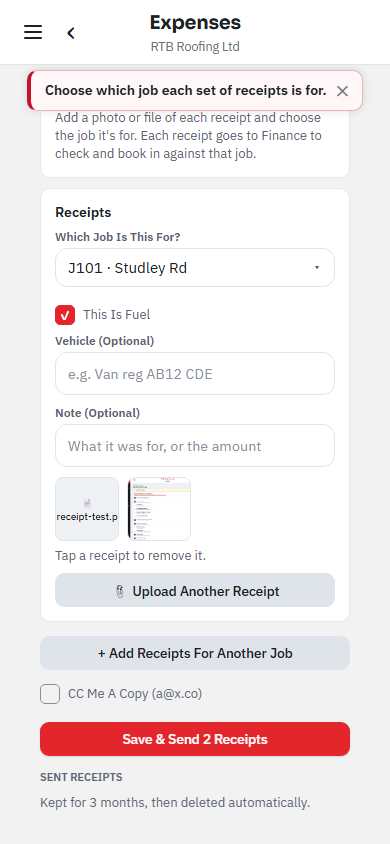
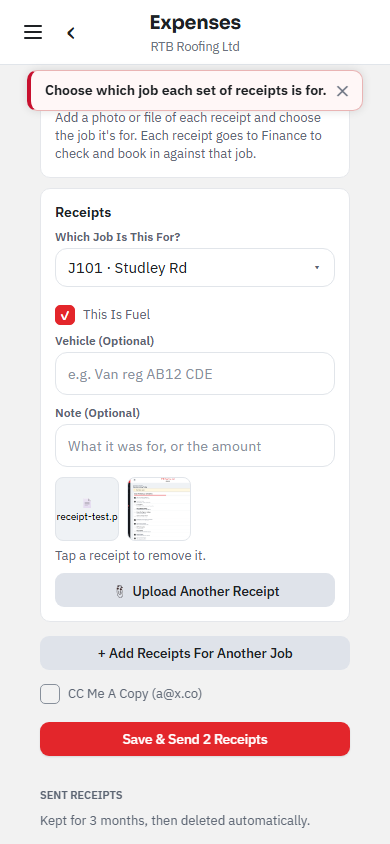
Home: the weather tile uses the company's own postcode when there are no projects yet (RTB Construction); the Today tiles by the weather leave out the drivers' "Delivery: …" calendar items (still on the calendars). iPhone: tapping the top of the screen takes the open page back to the top (the page h
Claude-Session: https://claude.ai/code/session_012KhfNvBEbifMJmPdX7yZfp

Changed region(s): [[0.0923, 0.8934, 0.8, 0.9858]]

diff --git a/tools/test-harness/home19-check.js b/tools/test-harness/home19-check.js
@@ -1,0 +1,80 @@
+// Home page and iPhone (Andy, 19 Nov 2026): "there is no weather tile on home page of construction?", "remove delivery
+// drivers from the tiles that go next to weather please", and "when I press the top of the screen everywhere else it
+// takes me to the top of the page but in this it doesn't". Fake database. node home19-check.js
+const {chromium, makeContext} = require('./harness');
+const path = require('path');
+const B = 'http://localhost:8081', S1 = '11111111-1111-1111-1111-111111111111';
+const check = (ok, what) => { console.log((ok ? 'PASS ' : 'FAIL ') + what); if (!ok) process.exitCode = 1; };
+const IPHONE = 'Mozilla/5.0 (iPhone; CPU iPhone OS 18_0 like Mac OS X) AppleWebKit/605.1.15 (KHTML, like Gecko) Version/18.0 Mobile/15E148 Safari/604.1';
+const login = async (page) => {
+  await page.goto(B + '/login'); await page.waitForTimeout(5000);
+  await page.fill('input[placeholder="you@yourcompany.co.uk"]', 'a@x.co'); await page.fill('input[type="password"]', 'pw123456');
+  await page.getByText('Sign In', {exact: true}).click(); await page.waitForTimeout(6000);
+};
+const today = () => { const d = new Date(); return `${d.getFullYear()}-${String(d.getMonth() + 1).padStart(2, '0')}-${String(d.getDate()).padStart(2, '0')}`; };
+
+(async () => {
+  const browser = await chromium.launch(); const errs = [];
+  // 1. A company with no projects: the weather is for the company's own postcode.
+  {
+    const {ctx, db} = await makeContext(browser, 'admin', [], {viewport: {width: 1300, height: 900}});
+    require('./seeds/world')(db);
+    const me = db.profiles.find((p) => p.id === 'me'); me.role = 'admin';
+    db.sites = []; db.organizations[0].rams_settings = {address: 'Unit 7\nRunwell Hall Farm, Hoe Lane\nRettendon, CM3 8DQ', phone: '01268 000000'};
+    const page = await ctx.newPage(); page.on('pageerror', (e) => errs.push(e.message));
+    await login(page);
+    const wx = await page.locator('[aria-label^="Weather"]').count();
+    check(wx > 0, `no projects yet: there is a weather tile, from the company's postcode (${wx})`);
+    await ctx.close();
+  }
+  // 2. Today's tiles leave out the drivers' deliveries.
+  {
+    const {ctx, db} = await makeContext(browser, 'admin', [], {viewport: {width: 1300, height: 900}});
+    require('./seeds/world')(db);
+    const me = db.profiles.find((p) => p.id === 'me'); me.role = 'admin';
+    db.site_calendar_events = [
+      {id: 'ev1', site_id: S1, title: 'Delivery: Finish clearing site', event_date: today(), created_at: new Date().toISOString()},
+      {id: 'ev2', site_id: S1, title: 'Scaffold inspection', event_date: today(), created_at: new Date().toISOString()},
+    ];
+    const page = await ctx.newPage(); page.on('pageerror', (e) => errs.push(e.message));
+    await login(page);
+    const t = await page.locator('body').innerText();
+    // The Today tiles by the weather, not the Next 5 Days calendar under them (deliveries stay on the calendar).
+    const todayPart = t.split('Next 5 Days')[0];
+    check(/Scaffold inspection/.test(todayPart) && !/Delivery: Finish clearing site/.test(todayPart), 'the Today tiles by the weather show key dates, not the drivers\' deliveries');
+    await page.screenshot({path: path.join(__dirname, 'shots', 'home19-today.png')});
+    await ctx.close();
+  }
+  // 3. iPhone: tapping the top of the screen (the page going to 0) takes the open list back to the top.
+  {
+    const {ctx, db} = await makeContext(browser, 'admin', [], {viewport: {width: 390, height: 844}, userAgent: IPHONE, hasTouch: true, isMobile: true});
+    require('./seeds/world')(db);
+    const me = db.profiles.find((p) => p.id === 'me'); me.role = 'admin';
+    await ctx.addInitScript((ua) => { Object.defineProperty(navigator, 'userAgent', {get: () => ua}); }, IPHONE);
+    const page = await ctx.newPage(); page.on('pageerror', (e) => errs.push(e.message));
+    await login(page);
+    await page.waitForTimeout(1500);
+    const before = await page.evaluate(() => {
+      const el = [...document.querySelectorAll('div')].filter((d) => d.scrollHeight > d.clientHeight + 200 && /(auto|scroll)/.test(getComputedStyle(d).overflowY)).sort((a, b) => b.clientHeight - a.clientHeight)[0];
+      if (!el) return {found: false};
+      el.setAttribute('data-test-scroller', '1'); el.scrollTop = 400;
+      return {found: true, top: el.scrollTop, page: window.scrollY};
+    });
+    check(before.found && before.top > 0 && before.page === 1, `the page sits on its spare pixel and the list is scrolled down (${JSON.stringify(before)})`);
+    await page.evaluate(() => window.scrollTo(0, 0));
+    await page.waitForTimeout(1500);
+    const after = await page.evaluate(() => ({top: document.querySelector('[data-test-scroller]').scrollTop, page: window.scrollY}));
+    check(after.top === 0 && after.page === 1, `tapping the top takes the list back to the top, ready for the next tap (${JSON.stringify(after)})`);
+    // Not while typing: the keyboard moves the page too.
+    await page.evaluate(() => { document.querySelector('[data-test-scroller]').scrollTop = 300; });
+    const input = page.locator('input:visible').first();
+    if (await input.count()) {
+      await input.focus(); await page.evaluate(() => window.scrollTo(0, 0)); await page.waitForTimeout(1200);
+      const typing = await page.evaluate(() => document.querySelector('[data-test-scroller]').scrollTop);
+      check(typing > 0, `while typing, the page moving doesn't jump the list (${typing})`);
+    }
+    await ctx.close();
+  }
+  check(!errs.length, `no page errors ${errs.slice(0, 2).join(' | ')}`);
+  await browser.close();
+})();

diff --git a/app-native/src/components/PmHome.tsx b/app-native/src/components/PmHome.tsx
@@ -12,11 +12,12 @@ import { HowTo } from '@/components/HowTo';
 import { OphIcon } from '@/components/OphIcon';
 import { SearchButton } from '@/components/SearchButton';
 import { SitesMapCard } from '@/components/SitesMap';
+import { useCompanyContact } from '@/components/EmailSignature';
 import { WeatherTile } from '@/components/WeatherSwap';
 import { Card, Muted, Screen, SectionTitle, Stat, Tile, TileGrid, TINTS } from '@/components/ui';
 import { useHubAll } from '@/data/hub';
 import { useDeliveryRequests } from '@/data/deliveries';
-import { useFinOverview } from '@/data/finance';
+import { useFinOverview, useFinSettings } from '@/data/finance';
 import { useQuotes } from '@/data/quotes';
 import { useOnSiteNow, usePmReports, usePmTodos, useTodayEvents } from '@/data/pmHome';
 import { useSites } from '@/data/sites';
@@ -25,8 +26,10 @@ import { useAuth } from '@/lib/auth';
 import { heading } from '@/lib/fonts';
 import { greeting, siteStatusKey } from '@/lib/rules/checkin';
 import { isQuoted } from '@/lib/rules/quotes';
+import { ukPostcode } from '@/lib/rules/weather';
 import { seesHomeFinance } from '@/lib/homeTiles';
 import { can } from '@/lib/rules/rolePerms';
+import type { Site } from '@/lib/types';
 import { base, space, useDesk, useTheme } from '@/theme/theme';
 
 export function PmHome() {
@@ -63,17 +66,26 @@ export function PmHome() {
   const where = (r: (typeof reports)[number]) => (r.site_id ? (sites ?? []).find((s) => s.id === r.site_id)?.name || 'Project' : r.general_label || 'General survey');
   const go = (p: string) => () => router.push(p as never);
   const { data: today = [] } = useTodayEvents();
+  const keyDates = today.filter((e) => !/^s*deliverys*:/i.test(e.title || ''));
   const siteName = (id: string) => (sites ?? []).find((x) => x.id === id)?.name || 'Project';
   const onSiteJobs = new Set(onSite.map((o) => o.site_id)).size;
   // Today (Andy, 6 Nov 2026: option 1): key dates and deliveries from the project calendars, who's on site, reports in progress.
   const todayRows: { ic: string; t: string; sub: string; go: string }[] = [
-    ...today.slice(0, 4).map((e) => ({ ic: /deliver|collect|\bPO\b/i.test(e.title) ? 'truck' : 'calendar', t: e.title, sub: siteName(e.site_id), go: `/sites/${e.site_id}/calendar` })),
+    // Not the drivers' deliveries ("Delivery: …" on the calendars): Andy, 19 Nov 2026: "remove delivery drivers from the
+    // tiles that go next to weather please. We don't need to see them constantly". They're still on the calendars.
+    ...keyDates.slice(0, 4).map((e) => ({ ic: /deliver|collect|\bPO\b/i.test(e.title) ? 'truck' : 'calendar', t: e.title, sub: siteName(e.site_id), go: `/sites/${e.site_id}/calendar` })),
     { ic: 'users', t: onSite.length ? `${onSite.length} on site` : 'Nobody on site yet', sub: onSite.length ? `across ${onSiteJobs} project${onSiteJobs === 1 ? '' : 's'}` : 'Signed in today', go: '/onsite' },
     ...(dlvN ? [{ ic: 'truck', t: `${dlvN} deliver${dlvN === 1 ? 'y' : 'ies'} to schedule`, sub: 'Delivery schedule', go: '/pm/deliveries' }] : []),
     ...(open.length ? [{ ic: 'reports', t: `${open.length} report${open.length === 1 ? '' : 's'} in progress`, sub: open[0] ? `${open[0].template_name || 'Report'} · ${where(open[0])}` : '', go: '/pm/reports' }] : []),
   ];
   // Today's weather first (Andy, 11 Nov 2026), for the first live project with a postcode; tap it for the week.
-  const wxSite = live.find((s2) => !!s2.postcode) ?? (sites ?? []).find((s2) => !!s2.postcode);
+  // With no project yet (a new company, e.g. RTB Construction on 19 Nov 2026), the company's own postcode: from its
+  // address (Admin › RAMS Library › Company, or Finance's company address).
+  const { data: contact } = useCompanyContact(org?.id);
+  const { data: finSet } = useFinSettings(org?.id);
+  const homePostcode = ukPostcode(String(contact?.address || '')) || ukPostcode(String((finSet as Record<string, unknown> | undefined)?.company_address || ''));
+  const wxSite = live.find((s2) => !!s2.postcode) ?? (sites ?? []).find((s2) => !!s2.postcode)
+    ?? (homePostcode ? ({ id: '', name: org?.name || 'Office', postcode: homePostcode } as unknown as Site) : undefined);
   const todayCard = (
     <Card style={{ paddingHorizontal: 0, paddingVertical: 10, marginBottom: desk ? 0 : space.m, ...(desk ? { flex: 1, minWidth: 0 } : {}) }}>
       <Text style={{ fontWeight: desk ? '700' : '600', color: base.ink, fontSize: desk ? 16 : 14, paddingHorizontal: desk ? 18 : 14, paddingBottom: 6 }}>Today</Text>
@@ -88,7 +100,7 @@ export function PmHome() {
           </View>
         </Pressable>
       ))}
-      {!today.length && <Text style={{ fontSize: 12, color: base.slateLight, paddingHorizontal: desk ? 18 : 14, paddingTop: 8, borderTopWidth: 1, borderTopColor: '#f0f1f3' }}>No key dates or deliveries on the calendars today.</Text>}
+      {!keyDates.length && <Text style={{ fontSize: 12, color: base.slateLight, paddingHorizontal: desk ? 18 : 14, paddingTop: 8, borderTopWidth: 1, borderTopColor: '#f0f1f3' }}>No key dates on the calendars today.</Text>}
     </Card>
   );
 

diff --git a/app-native/src/lib/webShell.ts b/app-native/src/lib/webShell.ts
@@ -27,3 +27,46 @@ if (Platform.OS === 'web' && typeof document !== 'undefined') {
   `;
   document.head.appendChild(style);
 }
+
+// Tap the top of an iPhone's screen to go back to the top (Andy, 19 Nov 2026: "when I press the top of the screen everywhere
+// else it takes me to the top of the page but in this it doesn't"). The iPhone only does that for the page itself, which
+// never moves here (above), so the page is given one spare pixel to scroll: the app is fixed in place, so nothing on
+// screen moves. Tapping the top takes the page from that pixel back to 0; the app then scrolls whatever list is open to
+// the top, as the iPhone would, and puts the page back on its pixel. Not while typing: the keyboard moves the page too.
+if (Platform.OS === 'web' && typeof window !== 'undefined' && typeof document !== 'undefined') {
+  const ua = navigator.userAgent || '';
+  const ios = /iPhone|iPad|iPod/.test(ua) || (/Macintosh/.test(ua) && (navigator.maxTouchPoints || 0) > 1);
+  if (ios) {
+    const style = document.createElement('style');
+    style.textContent = 'html.tap-top { height: calc(100% + 1px); overflow-y: scroll; scrollbar-width: none; } html.tap-top::-webkit-scrollbar { display: none; }';
+    document.head.appendChild(style);
+    document.documentElement.classList.add('tap-top');
+    let typingUntil = 0;
+    const typing = () => {
+      const a = document.activeElement as HTMLElement | null;
+      return Date.now() < typingUntil || !!(a && (a.tagName === 'INPUT' || a.tagName === 'TEXTAREA' || a.isContentEditable));
+    };
+    document.addEventListener('focusin', () => { typingUntil = Date.now() + 900; });
+    document.addEventListener('focusout', () => { typingUntil = Date.now() + 900; });
+    const park = () => { if (window.scrollY < 1) window.scrollTo(0, 1); };
+    const toTop = () => {
+      document.querySelectorAll<HTMLElement>('div').forEach((el) => {
+        if (el.scrollTop <= 0 || el.scrollHeight <= el.clientHeight + 2) return;
+        const oy = getComputedStyle(el).overflowY;
+        if (oy !== 'auto' && oy !== 'scroll') return;
+        const r = el.getBoundingClientRect();
+        if (r.width < 40 || r.height < 40 || r.bottom <= 0 || r.top >= window.innerHeight) return;
+        el.scrollTo({ top: 0, behavior: 'smooth' });
+      });
+    };
+    let parked = false;
+    window.addEventListener('scroll', () => {
+      if (window.scrollY > 0) { parked = true; return; }
+      if (parked && !typing()) toTop();
+      parked = false;
+      setTimeout(park, 350);
+    }, { passive: true });
+    window.addEventListener('load', () => setTimeout(park, 300));
+    setTimeout(park, 1200);
+  }
+}

diff --git a/app-native/src/app/(app)/expenses.tsx b/app-native/src/app/(app)/expenses.tsx
@@ -120,7 +120,8 @@ export default function Expenses() {
       <Button kind="ghost" disabled={!!busy} title="+ Add Receipts For Another Job" onPress={() => setGroups([...groups, newGroup(null)])} />
       <View style={{ marginVertical: 6 }}><Check label={`CC Me A Copy${me.email ? ` (${me.email})` : ''}`} value={ccMe} onChange={setCcMe} /></View>
       <Button disabled={!!busy || !total} busy={!!busy} title={busy || (total ? `Save & Send ${total} Receipt${total === 1 ? '' : 's'}` : 'Add A Receipt To Send')} onPress={save} />
-      <View style={{ height: 14 }} />
+      {/* A clear gap before the list (Andy, 19 Nov 2026: "the sent receipts sits too high"). */}
+      <View style={{ height: 32 }} />
 
       <SectionTitle>Sent Receipts</SectionTitle>
       <Muted style={{ marginBottom: 8 }}>Kept for {recent?.months ?? 3} months, then deleted automatically.</Muted>

diff --git a/app-native/src/lib/rules/weather.ts b/app-native/src/lib/rules/weather.ts
@@ -17,3 +17,10 @@ export function rainDelayEmail(job: { name?: string | null; job_number?: string 
     message: `Dear ${who || 'Sir / Madam'},\n\nDue to the adverse weather today, ${when}, we are not in attendance at ${job.address || job.name || 'site'}. We will need to add additional time to the programme to allow for this.\n\nWe will return to site as soon as conditions allow.\n\nKind regards,\n${sender}\n${company}`,
   };
 }
+
+/** The UK postcode in an address, e.g. "Unit 7, Runwell Hall Farm, Hoe Lane, Rettendon, CM3 8DQ" → "CM3 8DQ"; '' if none.
+ *  For the home page weather when a company has no projects yet (19 Nov 2026). */
+export function ukPostcode(address: string | null | undefined): string {
+  const m = /\b([A-Z]{1,2}\d[A-Z\d]?)\s*(\d[A-Z]{2})\b/i.exec(String(address || ''));
+  return m ? `${m[1]} ${m[2]}`.toUpperCase() : '';
+}

diff --git a/app-native/src/components/WeatherSwap.tsx b/app-native/src/components/WeatherSwap.tsx
@@ -195,7 +195,8 @@ function WeatherPopup({ me, site, company, pm, lat, lon, onClose, start = 'today
               </View>
             )}
           </ScrollView>
-          <View style={{ marginTop: 12 }}><Button title="✉ Email Weather Delay" onPress={() => setView('email')} /></View>
+          {/* Only for a project: the company's own weather (no projects yet) has no client to tell. */}
+          {!!site.id && <View style={{ marginTop: 12 }}><Button title="✉ Email Weather Delay" onPress={() => setView('email')} /></View>}
         </Pressable>
       </Pressable>
     </Modal>

diff --git a/app-native/src/lib/rules/weather.test.ts b/app-native/src/lib/rules/weather.test.ts
@@ -1,0 +1,12 @@
+/// <reference types="node" />
+import assert from 'node:assert/strict';
+import { test } from 'node:test';
+
+import { ukPostcode } from './weather.ts';
+
+test('the postcode is found in a company address (home page weather with no projects yet)', () => {
+  assert.equal(ukPostcode('Unit 7, Runwell Hall Farm, Hoe Lane, Rettendon, CM3 8DQ'), 'CM3 8DQ');
+  assert.equal(ukPostcode('1 High St\nLondon\nsw1a1aa'), 'SW1A 1AA');
+  assert.equal(ukPostcode('No postcode here'), '');
+  assert.equal(ukPostcode(null), '');
+});
